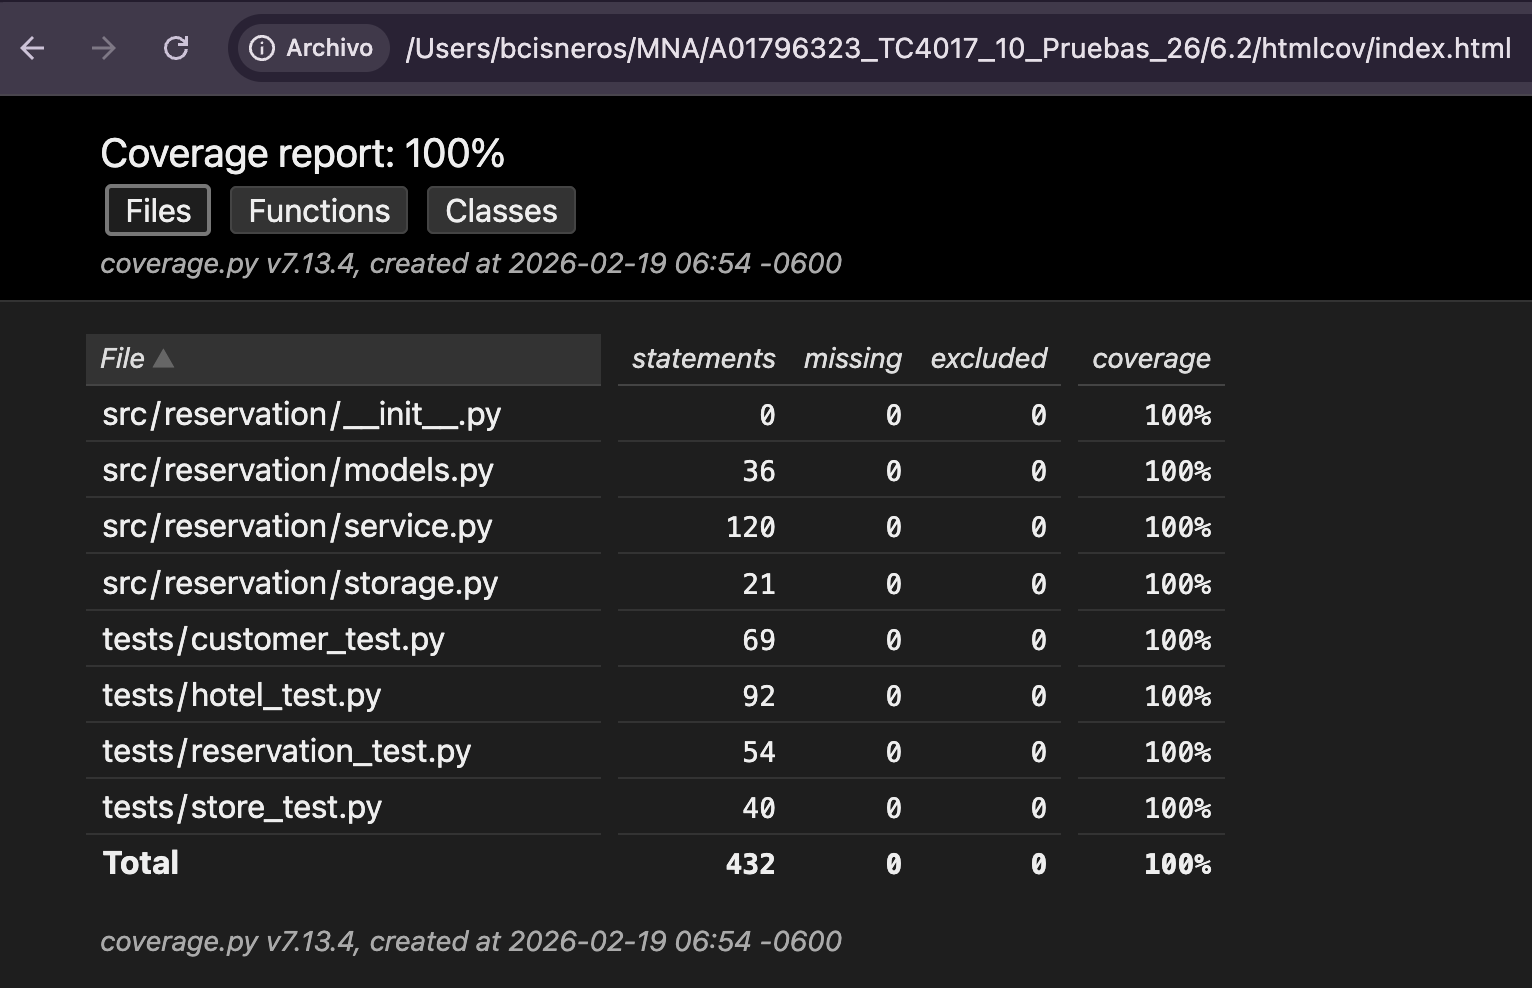
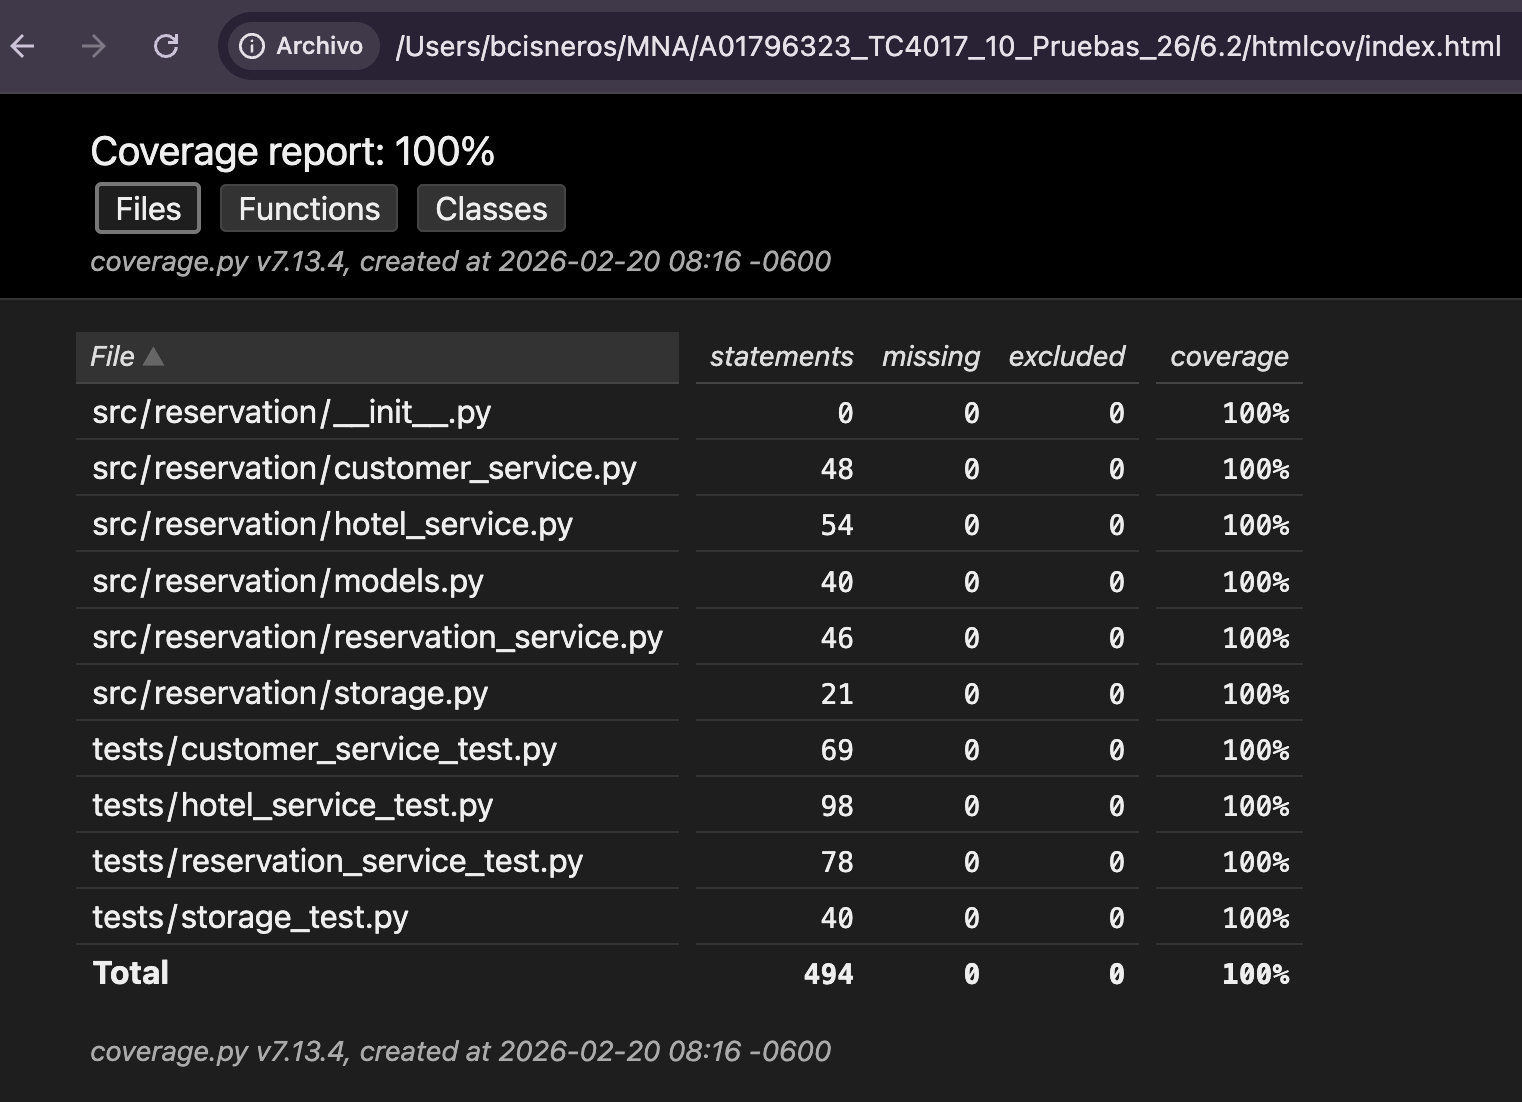
docs: update readme to reflect latest changes

diff --git a/6.2/README.md b/6.2/README.md
@@ -41,12 +41,17 @@ An optional **CLI** (`scripts/cli.py`) provides a **Spanish** interactive menu t
 ## 2) Project Structure
 
 ```
+.
 ├── Makefile
 ├── README.md
 ├── data
 │   ├── customers.json
 │   ├── hotels.json
 │   └── reservations.json
+├── evidences
+│   ├── conventional_commits.png
+│   ├── coverage_report.png
+│   └── static_analysis.png
 ├── pyproject.toml
 ├── requirements.txt
 ├── scripts
@@ -55,15 +60,18 @@ An optional **CLI** (`scripts/cli.py`) provides a **Spanish** interactive menu t
 │   ├── __init__.py
 │   └── reservation
 │       ├── __init__.py
+│       ├── customer_service.py
+│       ├── hotel_service.py
 │       ├── models.py
-│       ├── service.py
+│       ├── reservation_service.py
 │       └── storage.py
+├── test.sh
 └── tests
     ├── __init__.py
-    ├── customer_test.py
-    ├── hotel_test.py
-    ├── reservation_test.py
-    └── store_test.py
+    ├── customer_service_test.py
+    ├── hotel_service_test.py
+    ├── reservation_service_test.py
+    └── storage_test.py
 ```
 
 ---
@@ -99,27 +107,23 @@ make cov
 🧪 Running unit tests with coverage...
 coverage erase
 coverage run -m unittest discover -s tests -p "*_test.py" -v
-test_create_customer_duplicate_id_raises (customer_test.CustomerTest.test_create_customer_duplicate_id_raises) ... ok
-test_create_customer_empty_id_raises (customer_test.CustomerTest.test_create_customer_empty_id_raises) ... ok
-...
-test_load_missing_file_returns_empty_list (store_test.StoreTest.test_load_missing_file_returns_empty_list) ... ok
-test_save_overwrites_existing_file (store_test.StoreTest.test_save_overwrites_existing_file) ... ok
-test_save_then_load_round_trip_ok (store_test.StoreTest.test_save_then_load_round_trip_ok) ... ok
-
+....
 ----------------------------------------------------------------------
-Ran 40 tests in 0.024s
+Ran 45 tests in 0.028s
 
 OK
 📈 Coverage (text report)
 coverage report -m --include="src/*"
-Name                          Stmts   Miss  Cover   Missing
------------------------------------------------------------
-src/reservation/__init__.py       0      0   100%
-src/reservation/service.py      110      0   100%
-src/reservation/storage.py       21      0   100%
------------------------------------------------------------
-TOTAL                           131      0   100%
-
+Name                                     Stmts   Miss  Cover   Missing
+----------------------------------------------------------------------
+src/reservation/__init__.py                  0      0   100%
+src/reservation/customer_service.py         48      0   100%
+src/reservation/hotel_service.py            54      0   100%
+src/reservation/models.py                   40      0   100%
+src/reservation/reservation_service.py      46      0   100%
+src/reservation/storage.py                  21      0   100%
+----------------------------------------------------------------------
+TOTAL                                      209      0   100%
 ```
 
 **Generate HTML Coverage Report**
@@ -129,7 +133,7 @@ make html
 ...
 
 ----------------------------------------------------------------------
-Ran 40 tests in 0.024s
+Ran 45 tests in 0.028s
 
 OK
 🌐 Generating HTML coverage...
@@ -182,7 +186,7 @@ make lint
 - **Service tests** are implemented as **pure unit tests**, fully isolated from the filesystem by using a **catalog‑based mocked store**.
   `load()` returns values **based on the requested catalog filename** (e.g., `hotels.json`, `customers.json`, `reservations.json`), making the tests **independent of call order** and ensuring **deterministic** behavior.
 - **In‑memory persistence** is simulated in multi‑step scenarios (e.g., cancel → re‑reserve), updating the catalog map after each `save`. This allows the tests to reflect real state transitions without touching disk.
-- **Storage tests** (`store_test.py`) validate the actual filesystem behavior of `JsonStore`, including missing files, corrupted JSON, overwriting, and round‑trip serialization.
+- **Storage tests** (`storage_test.py`) validate the actual filesystem behavior of `JsonStore`, including missing files, corrupted JSON, overwriting, and round‑trip serialization.
 - **Test names** clearly communicate intent and follow a **small‑scope / small‑setup** approach, testing only one behavior per case.
 - A **TDD approach** was followed for several components, letting the design emerge naturally as failing tests guided refactoring, removal of duplication, and simplification of logic.
 
